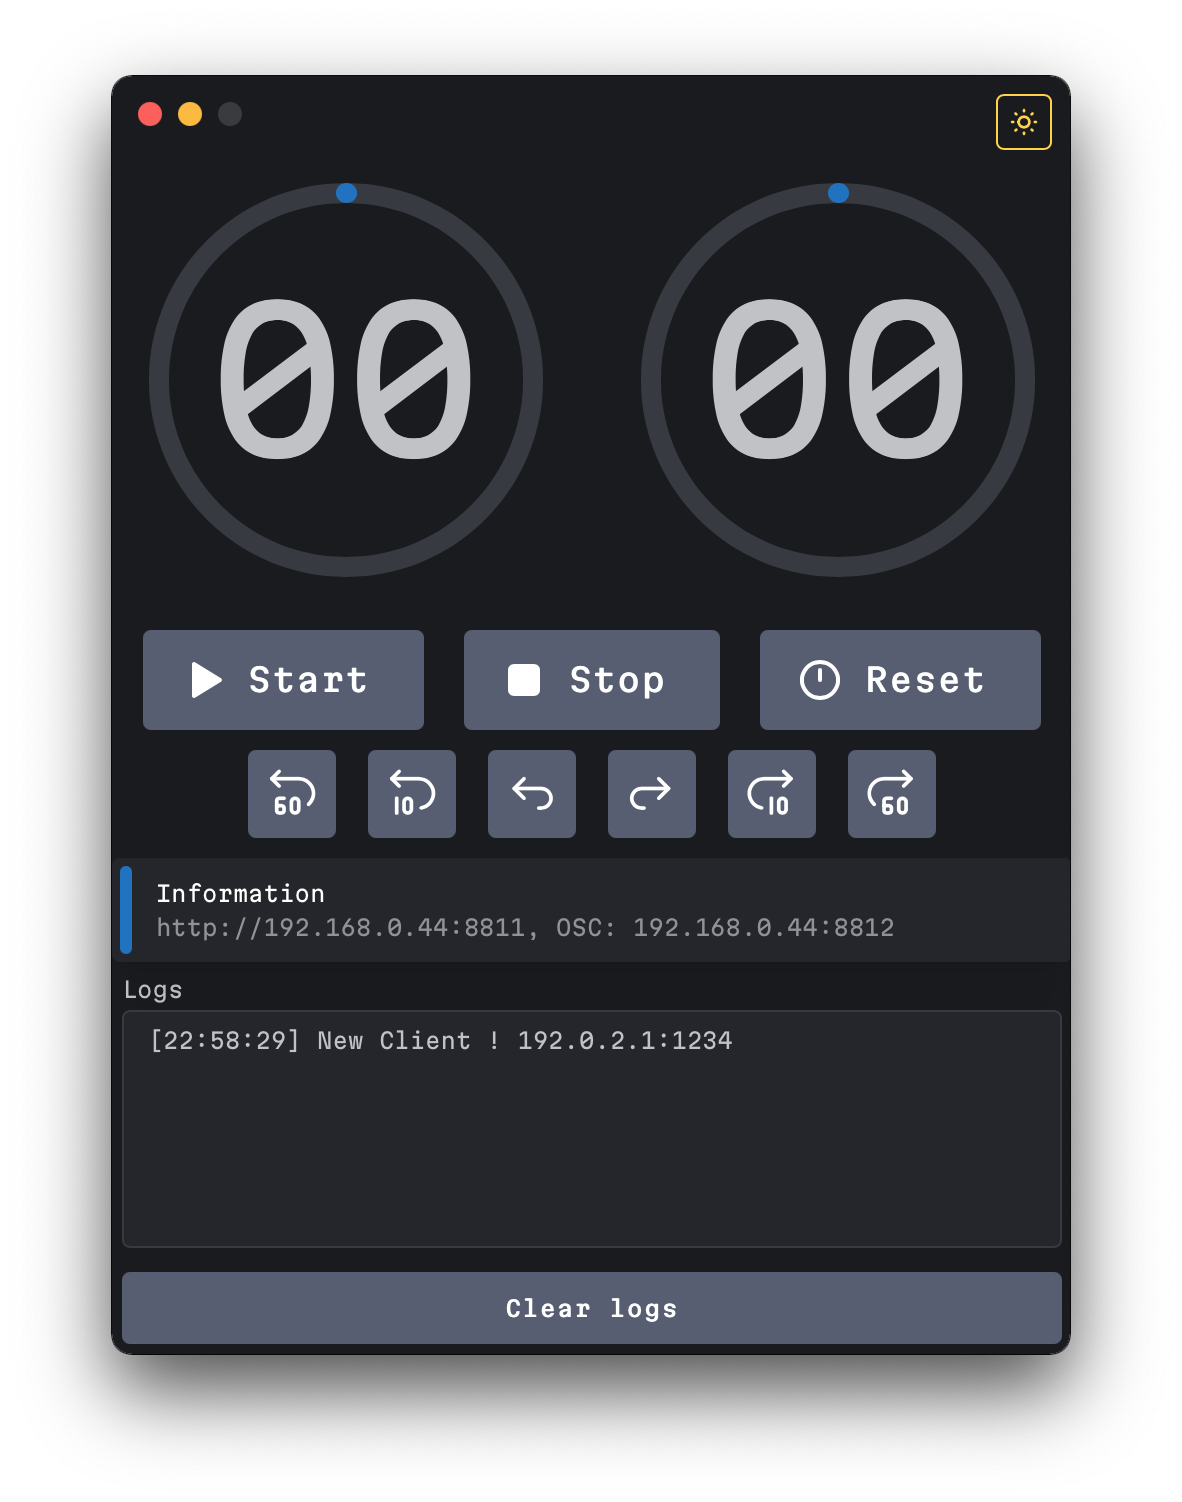
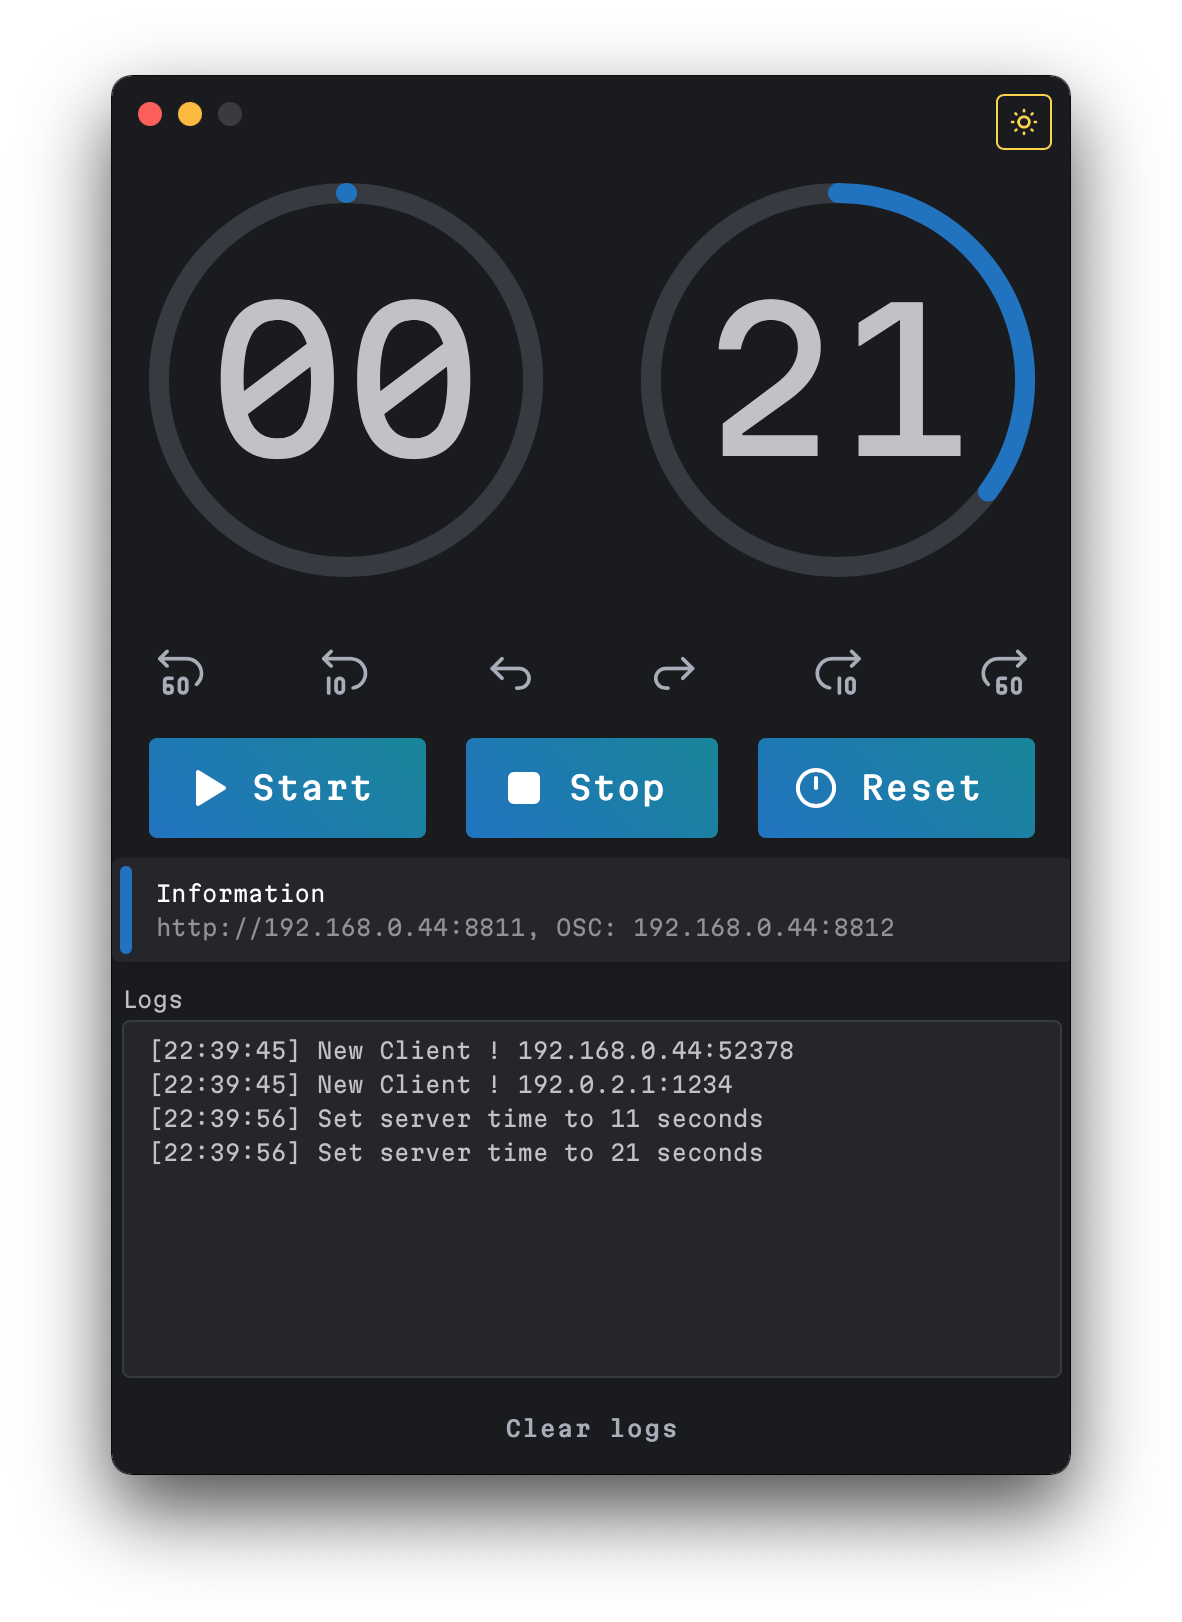
Minor refactor

Changed region(s): [[0.0914, 0.0919, 0.8832, 0.735], [0.0914, 0.8269, 0.9137, 0.9188], [0.0914, 0.0306, 0.9137, 0.0919]]

diff --git a/frontend/src/App.tsx b/frontend/src/App.tsx
@@ -122,48 +122,41 @@ function App() {
       </Group>
 
 
-      {/*<Group justify="center" mt={10}>
-        <TextInput
-          label="Client(s) OSC" value={oscclients || ""} onChange={(evt) =>
-            setOscClients(evt.target.value)
-          }
-        />
-        </Group>*/}
+      
+      <Group justify="space-around" mt={10}>
 
-      <Group justify="center" mt={10}>
-
-        <Button variant="filled" size="lg" onClick={() => fetch("/start")} leftSection={
-          <IconPlayerPlayFilled size={24}></IconPlayerPlayFilled>
-        }>Start</Button>
-        <Button variant="filled" size="lg" onClick={() => fetch("/stop")} leftSection={
-          <IconPlayerStopFilled size={24}></IconPlayerStopFilled>
-        }>Stop</Button>
-        <Button variant="filled" size="lg" onClick={() => fetch("/reset")} leftSection={
-          <IconClockHour12 size={24}></IconClockHour12>
-        }>Reset</Button>
+        <ActionIcon variant="subtle" size="xl" onClick={() => addTimeFunction(-60)}>
+          <IconRewindBackward60 style={{ width: '70%', height: '70%' }} stroke={1.5}></IconRewindBackward60>
+        </ActionIcon>
+        <ActionIcon variant="subtle" size="xl" onClick={() => addTimeFunction(-10)}>
+          <IconRewindBackward10 style={{ width: '70%', height: '70%' }} stroke={1.5}></IconRewindBackward10>
+        </ActionIcon>
+        <ActionIcon variant="subtle"  size="xl" onClick={() => addTimeFunction(-1)}>
+          <IconArrowBackUp style={{ width: '70%', height: '70%' }} stroke={1.5}></IconArrowBackUp>
+        </ActionIcon>
+        <ActionIcon variant="subtle" size="xl"  onClick={() => addTimeFunction(1)}>
+          <IconArrowForwardUp style={{ width: '70%', height: '70%' }} stroke={1.5}></IconArrowForwardUp>
+        </ActionIcon>
+        <ActionIcon variant="subtle" size="xl"  onClick={() => addTimeFunction(10)} >
+          <IconRewindForward10 style={{ width: '70%', height: '70%' }} stroke={1.5}></IconRewindForward10>
+        </ActionIcon>
+        <ActionIcon variant="subtle" size="xl"  onClick={() => addTimeFunction(60)} >
+          <IconRewindForward60 style={{ width: '70%', height: '70%' }} stroke={1.5}></IconRewindForward60>
+        </ActionIcon>
 
       </Group>
 
       <Group justify="center" mt={10}>
 
-        <ActionIcon variant="filled"  size="xl" onClick={() => addTimeFunction(-60)}>
-          <IconRewindBackward60 style={{ width: '70%', height: '70%' }} stroke={1.5}></IconRewindBackward60>
-        </ActionIcon>
-        <ActionIcon variant="filled" size="xl" onClick={() => addTimeFunction(-10)}>
-          <IconRewindBackward10 style={{ width: '70%', height: '70%' }} stroke={1.5}></IconRewindBackward10>
-        </ActionIcon>
-        <ActionIcon variant="filled"  size="xl" onClick={() => addTimeFunction(-1)}>
-          <IconArrowBackUp style={{ width: '70%', height: '70%' }} stroke={1.5}></IconArrowBackUp>
-        </ActionIcon>
-        <ActionIcon variant="filled" size="xl"  onClick={() => addTimeFunction(1)}>
-          <IconArrowForwardUp style={{ width: '70%', height: '70%' }} stroke={1.5}></IconArrowForwardUp>
-        </ActionIcon>
-        <ActionIcon variant="filled" size="xl"  onClick={() => addTimeFunction(10)} >
-          <IconRewindForward10 style={{ width: '70%', height: '70%' }} stroke={1.5}></IconRewindForward10>
-        </ActionIcon>
-        <ActionIcon variant="filled" size="xl"  onClick={() => addTimeFunction(60)} >
-          <IconRewindForward60 style={{ width: '70%', height: '70%' }} stroke={1.5}></IconRewindForward60>
-        </ActionIcon>
+        <Button variant="gradient" size="lg" onClick={() => fetch("/start")} leftSection={
+          <IconPlayerPlayFilled size={24}></IconPlayerPlayFilled>
+        }>Start</Button>
+        <Button variant="gradient" size="lg" onClick={() => fetch("/stop")} leftSection={
+          <IconPlayerStopFilled size={24}></IconPlayerStopFilled>
+        }>Stop</Button>
+        <Button variant="gradient" size="lg" onClick={() => fetch("/reset")} leftSection={
+          <IconClockHour12 size={24}></IconClockHour12>
+        }>Reset</Button>
 
       </Group>
 
@@ -171,7 +164,13 @@ function App() {
         { info }
       </Notification>}
 
-      <Textarea label="Logs" m={5} value={logs.join('\n')} style={{
+      {/*<TextInput  mx={5} mt={10}
+        label="Client(s) OSC" value={oscclients || ""}  onChange={(evt) =>
+          setOscClients(evt.target.value)
+        }
+      />*/}
+
+      <Textarea label="Logs" mx={5} mt={10} value={logs.join('\n')} style={{
         flexGrow: 1,
         display: "flex",
         flexDirection: "column"
@@ -186,7 +185,7 @@ function App() {
         }
       }}></Textarea>
 
-      <Button m={5} variant="filled" onClick={() => setLogs([])}>Clear logs</Button>
+      <Button m={5} variant="subtle" onClick={() => setLogs([])}>Clear logs</Button>
     </Flex>
   )
 }

diff --git a/server.go b/server.go
@@ -8,6 +8,8 @@ import (
 	"strconv"
 	"strings"
 	"time"
+
+	"github.com/hypebeast/go-osc/osc"
 )
 
 type ChronoServer struct {
@@ -31,6 +33,8 @@ type ChronoServer struct {
 
 	// Client connections registry
 	clients map[chan []byte]bool
+
+	oscClients map[string]*osc.Client
 }
 
 func makeTimestamp() int64 {
@@ -49,13 +53,13 @@ func fmtDuration(d time.Duration) string {
 // LogPrintf Log
 func (server *ChronoServer) LogPrintf(format string, v ...interface{}) {
 	log.Printf(format, v...)
-	server.broadcast(fmt.Sprintf(format, v...))
+	server.sseBroadcast(fmt.Sprintf(format, v...))
 }
 
 // LogPrint Log
 func (server *ChronoServer) LogPrint(v ...interface{}) {
 	log.Print(v...)
-	server.broadcast(fmt.Sprint(v...))
+	server.sseBroadcast(fmt.Sprint(v...))
 }
 
 func (server *ChronoServer) listen() {
@@ -92,6 +96,7 @@ func NewChronoServer() *ChronoServer {
 		closingClients: make(chan chan []byte),
 		clients:        make(map[chan []byte]bool),
 		oldOffset:      -1,
+		oscClients:     make(map[string]*osc.Client),
 	}
 
 	// Set it running - listening and broadcasting events
@@ -100,7 +105,7 @@ func NewChronoServer() *ChronoServer {
 	return server
 }
 
-func (server *ChronoServer) serverOnRealHTTPProtocol(handler http.Handler) {
+func (server *ChronoServer) startHTTPListener(handler http.Handler) {
 	log.Fatal(http.ListenAndServe(*server.host+":"+*server.port, handler))
 }
 
@@ -150,10 +155,10 @@ func (server *ChronoServer) ServeHTTP(w http.ResponseWriter, r *http.Request) {
 
 		go func() {
 			time.Sleep(200 * time.Millisecond)
-			server.broadcast("http=" + server.getHTTPUrl() +
+			server.sseBroadcast("http=" + server.getHTTPUrl() +
 				", OSC: " + server.getOSCUrl())
-			server.broadcastTime()
-			server.broadcast("New Client ! " + r.RemoteAddr)
+			server.sseBroadcastTime()
+			server.sseBroadcast("New Client ! " + r.RemoteAddr)
 		}()
 
 		for {
@@ -169,17 +174,17 @@ func (server *ChronoServer) ServeHTTP(w http.ResponseWriter, r *http.Request) {
 		}
 
 	} else if r.URL.Path == "/reset" {
-		server.reset(0)
-		server.broadcastTime()
+		server.resetTimer(0)
+		server.sseBroadcastTime()
 	} else if r.URL.Path == "/start" {
-		server.start()
-		server.broadcastTime()
+		server.startTimer()
+		server.sseBroadcastTime()
 	} else if r.URL.Path == "/stop" {
-		server.stop()
-		server.broadcastTime()
+		server.stopTimer()
+		server.sseBroadcastTime()
 	} else if r.URL.Path == "/config" && strings.HasPrefix(r.URL.RawQuery, "clients=") {
 		var s = strings.TrimPrefix(r.URL.RawQuery, "clients=")
-		initOscClients(s)
+		server.oscInitClients(s)
 	} else if r.URL.Path == "/config" && strings.HasPrefix(r.URL.RawQuery, "time=") {
 		var s = strings.TrimPrefix(r.URL.RawQuery, "time=")
 		f, err := strconv.ParseFloat(s, 64)
@@ -192,7 +197,7 @@ func (server *ChronoServer) ServeHTTP(w http.ResponseWriter, r *http.Request) {
 		if server.startTime == 0 {
 			server.LogPrintf("Set server time to " + strconv.Itoa(int(i/1000)) + " seconds")
 			server.offset = i
-			server.broadcastTime()
+			server.sseBroadcastTime()
 		}
 	} else {
 		w.WriteHeader(404)
@@ -200,15 +205,15 @@ func (server *ChronoServer) ServeHTTP(w http.ResponseWriter, r *http.Request) {
 	}
 }
 
-func (server *ChronoServer) broadcast(msg string) {
+func (server *ChronoServer) sseBroadcast(msg string) {
 	server.Notifier <- []byte(msg)
 }
 
-func (server *ChronoServer) broadcastTime() {
-	server.broadcast("time=" + strconv.FormatInt(server.offset, 10))
+func (server *ChronoServer) sseBroadcastTime() {
+	server.sseBroadcast("time=" + strconv.FormatInt(server.offset, 10))
 }
 
-func (server *ChronoServer) reset(newOffsetMilliseconds int64) {
+func (server *ChronoServer) resetTimer(newOffsetMilliseconds int64) {
 	server.LogPrintf("Reset server time to 0 seconds")
 	if server.offset != newOffsetMilliseconds {
 		server.offset = newOffsetMilliseconds
@@ -219,14 +224,14 @@ func (server *ChronoServer) reset(newOffsetMilliseconds int64) {
 	}
 }
 
-func (server *ChronoServer) start() {
+func (server *ChronoServer) startTimer() {
 	if server.startTime == 0 {
 		server.startTime = makeTimestamp() - server.offset
 		log.Print("Clock started")
 	}
 }
 
-func (server *ChronoServer) stop() {
+func (server *ChronoServer) stopTimer() {
 	if server.startTime > 0 {
 		server.startTime = 0
 		log.Print("Clock stopped")
@@ -235,7 +240,7 @@ func (server *ChronoServer) stop() {
 
 func (server *ChronoServer) incrementTime(secondes int64) {
 	if server.startTime == 0 {
-		server.reset(server.offset + secondes*1000)
+		server.resetTimer(server.offset + secondes*1000)
 	}
 }
 

diff --git a/osc.go b/osc.go
@@ -10,9 +10,7 @@ import (
 	"github.com/hypebeast/go-osc/osc"
 )
 
-var oscClients map[string]*osc.Client = make(map[string]*osc.Client)
-
-func serveOSC(server ChronoServer) {
+func (server *ChronoServer) oscServe() {
 	addr := server.getOSCUrl()
 	oscServer := &osc.Server{Addr: addr}
 
@@ -72,20 +70,29 @@ func getTimeSkip(message string) int64 {
 	return skip
 }
 
-func initOscClients(clients string) error {
+func (server *ChronoServer) oscInitClients(clients string) error {
+	// TODO: gérer existant et supprimer anciens
 	for _, oscClient := range strings.Split(clients, ";") {
-		oscClientHost := oscClient
-		//oscClients[oscClient] = osc.NewClient(oscClientHost, 8765)
-		//msg := osc.NewMessage("/chronono/init")
-		//msg.Append(true)
-		//oscClients[oscClient].Send(msg)
-		log.Printf("init OSC client: %s", oscClientHost)
+		parts := strings.Split(oscClient, ":")
+		oscPort := 8765
+		if len(parts) > 1 {
+			port, err := strconv.Atoi(parts[1])
+			if err != nil {
+				continue
+			}
+			oscPort = port
+		}
+		server.oscClients[oscClient] = osc.NewClient(parts[0], oscPort)
+		msg := osc.NewMessage("/chronono/init")
+		msg.Append(true)
+		server.oscClients[oscClient].Send(msg)
+		server.LogPrintf("Init OSC client: %s", oscClient)
 	}
 	return nil
 }
 
-func broadcastOsc(millis int64) {
-	for _, oscClient := range oscClients {
+func (server *ChronoServer) oscBroadcast(millis int64) {
+	for _, oscClient := range server.oscClients {
 		msg := osc.NewMessage("/osc/minutes")
 		msg.Append(int32(millis / 60000))
 		oscClient.Send(msg)
@@ -95,17 +102,17 @@ func broadcastOsc(millis int64) {
 	}
 }
 
-func manageOSCMessage(server ChronoServer, message *osc.Message) {
+func manageOSCMessage(server *ChronoServer, message *osc.Message) {
 	log.Printf("Received OSC message : " + message.String())
 	startMsg, _ := regexp.MatchString("/chronono_start.*(1)|(true)", message.String())
 	stopMsg, _ := regexp.MatchString("/chronono_st(op)|(art.*0)|(art.*false)", message.String())
 	resetMsg, _ := regexp.MatchString("/chronono_reset.*", message.String())
 	if startMsg {
-		server.start()
+		server.startTimer()
 	} else if stopMsg {
-		server.stop()
+		server.stopTimer()
 	} else if resetMsg {
-		server.reset(0)
+		server.resetTimer(0)
 	} else {
 		var timeSkip = getTimeSkip(message.Address)
 		if timeSkip != 0 {

diff --git a/main.go b/main.go
@@ -37,7 +37,7 @@ func main() {
 		Assets: application.AssetOptions{
 			FS: assets,
 			Middleware: func(next http.Handler) http.Handler {
-				go server.serverOnRealHTTPProtocol(next)
+				go server.startHTTPListener(next)
 				return next
 			},
 			Handler: server,
@@ -55,7 +55,7 @@ func main() {
 			TitleBar:                application.MacTitleBarHiddenInset,
 		},
 		Width:         480,
-		Height:        640,
+		Height:        700,
 		DisableResize: true,
 		URL:           "/",
 	})
@@ -78,12 +78,12 @@ func main() {
 	})
 	systray.SetMenu(menu)
 
-	go serveOSC(*server)
+	go server.oscServe()
 	myClock := clock.NewClock()
 	job, ok := myClock.AddJobRepeat(time.Duration(100*time.Millisecond), 0, func() {
 		if server.startTime > 0 {
-			server.broadcastTime()
-			broadcastOsc(server.offset)
+			server.sseBroadcastTime()
+			server.oscBroadcast(server.offset)
 			server.offset = makeTimestamp() - server.startTime
 		}
 
